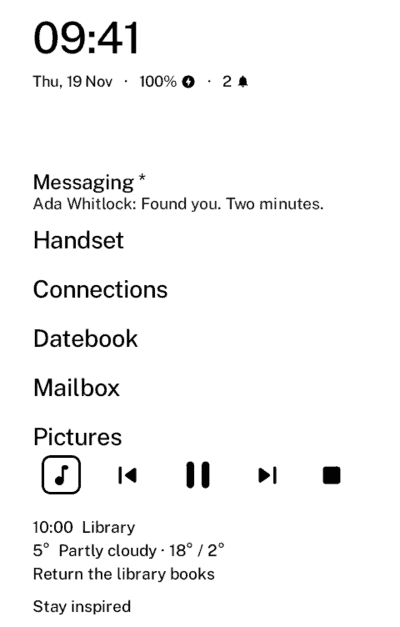
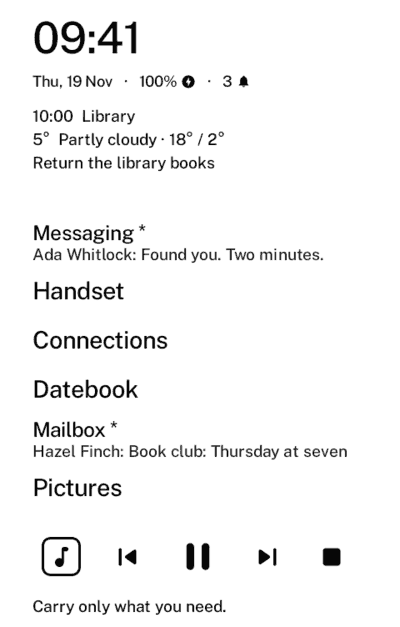
Home's picture: time, status, lines, apps, and the music at the foot

diff --git a/index.html b/index.html
@@ -279,7 +279,7 @@ can keep them updated. If it says "rate limit exceeded", give it a free GitHub t
      than the others, its screen beside what it adds. -->
 <div class="app home" id="iori">
   <img class="shot" src="shots/iori.png" data-dark="shots/dark/iori.png" width="400" height="627" loading="eager"
-       alt="Home's home screen: 09:41, the date, battery and notifications, six home apps by name (Messaging, Handset, Connections, Datebook, Mailbox, Pictures), Messaging marked with an asterisk and its new text under it (Ada Whitlock: Found you. Two minutes.), the music strip with its controls while Music Box plays the made-up song Morning Mist, and under it three lines from Glance (10:00 Library, the weather, the pinned note Return the library books) and the line Stay inspired">
+       alt="Home's home screen, top to bottom: 09:41; the date, battery and notifications; three lines from Glance (10:00 Library, the weather, the pinned note Return the library books); six home apps by name (Messaging, Handset, Connections, Datebook, Mailbox, Pictures), Messaging and Mailbox each marked with an asterisk and their newest message under them (Ada Whitlock: Found you. Two minutes. and Hazel Finch: Book club: Thursday at seven); the music strip with its controls while Music Box plays the made-up song Morning Mist; and at the foot the line Carry only what you need.">
   <div class="home-text">
   <h4><svg class="mark" aria-hidden="true"><use href="#hut"/></svg>Home <button type="button" class="jp" aria-pressed="false" title="日本語で読む">/ 庵 iori</button></h4>
   <p class="en">Home is the home screen made for the apps on this page. It shows your apps as a short
